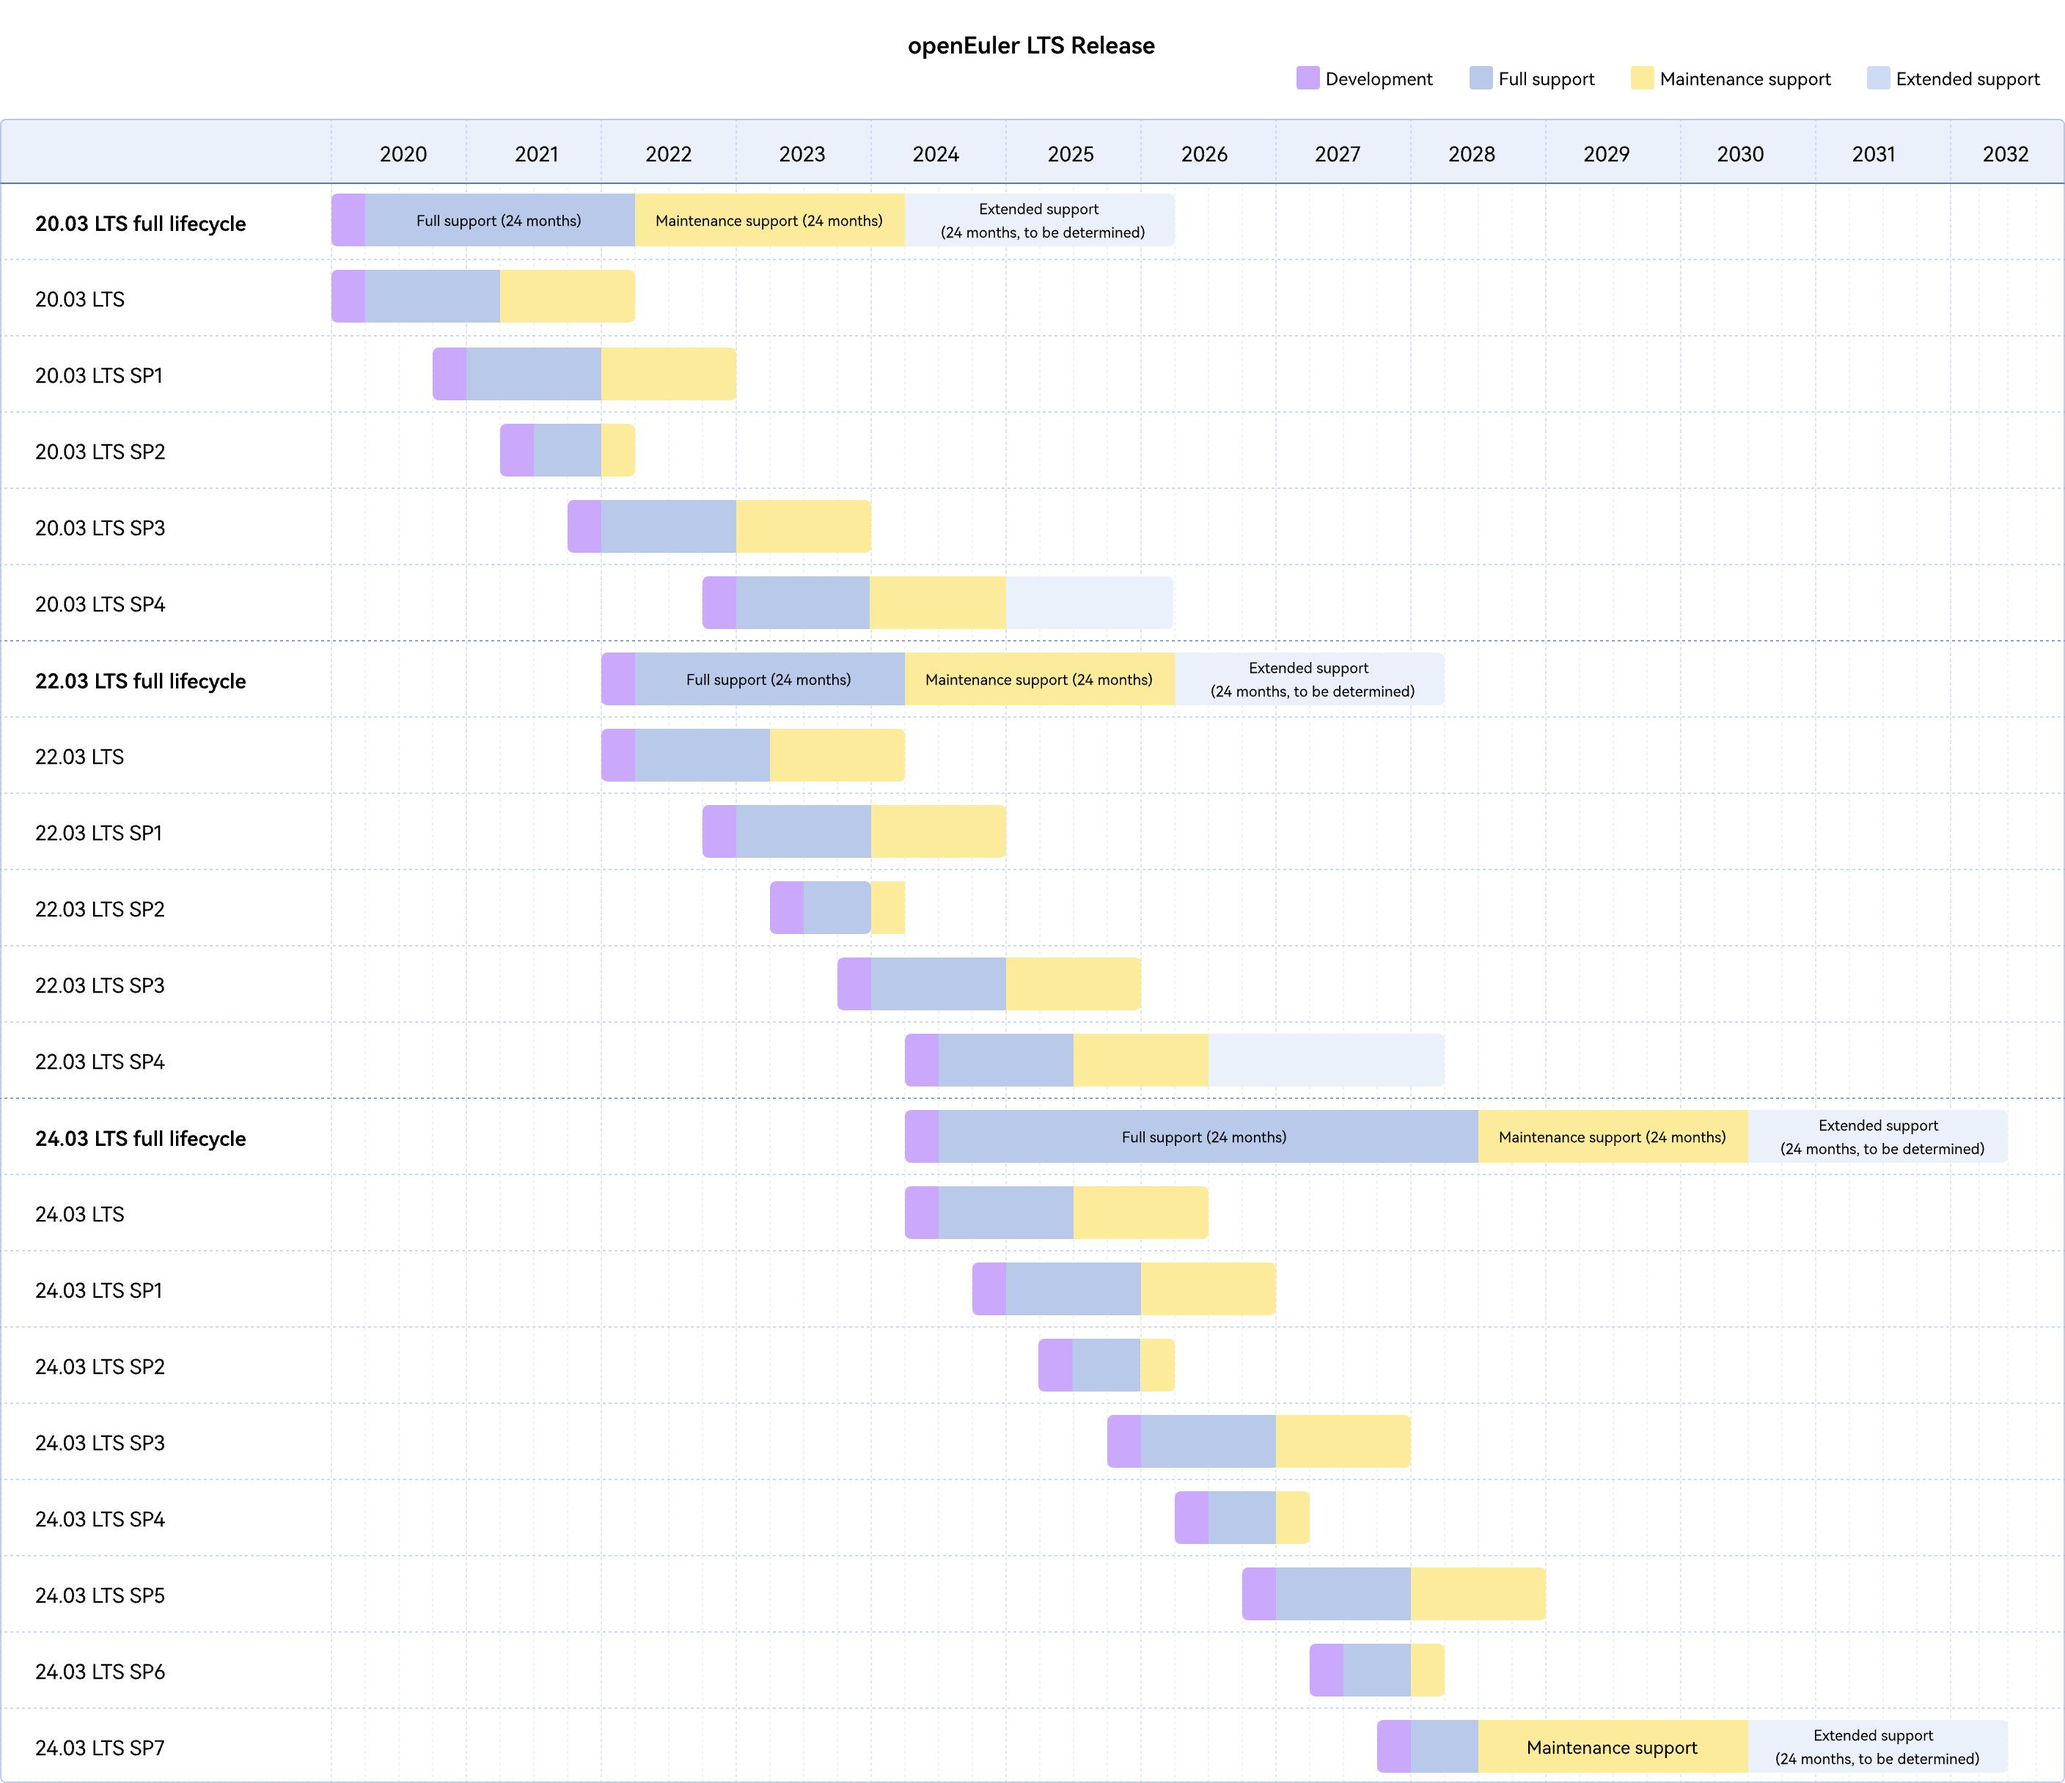
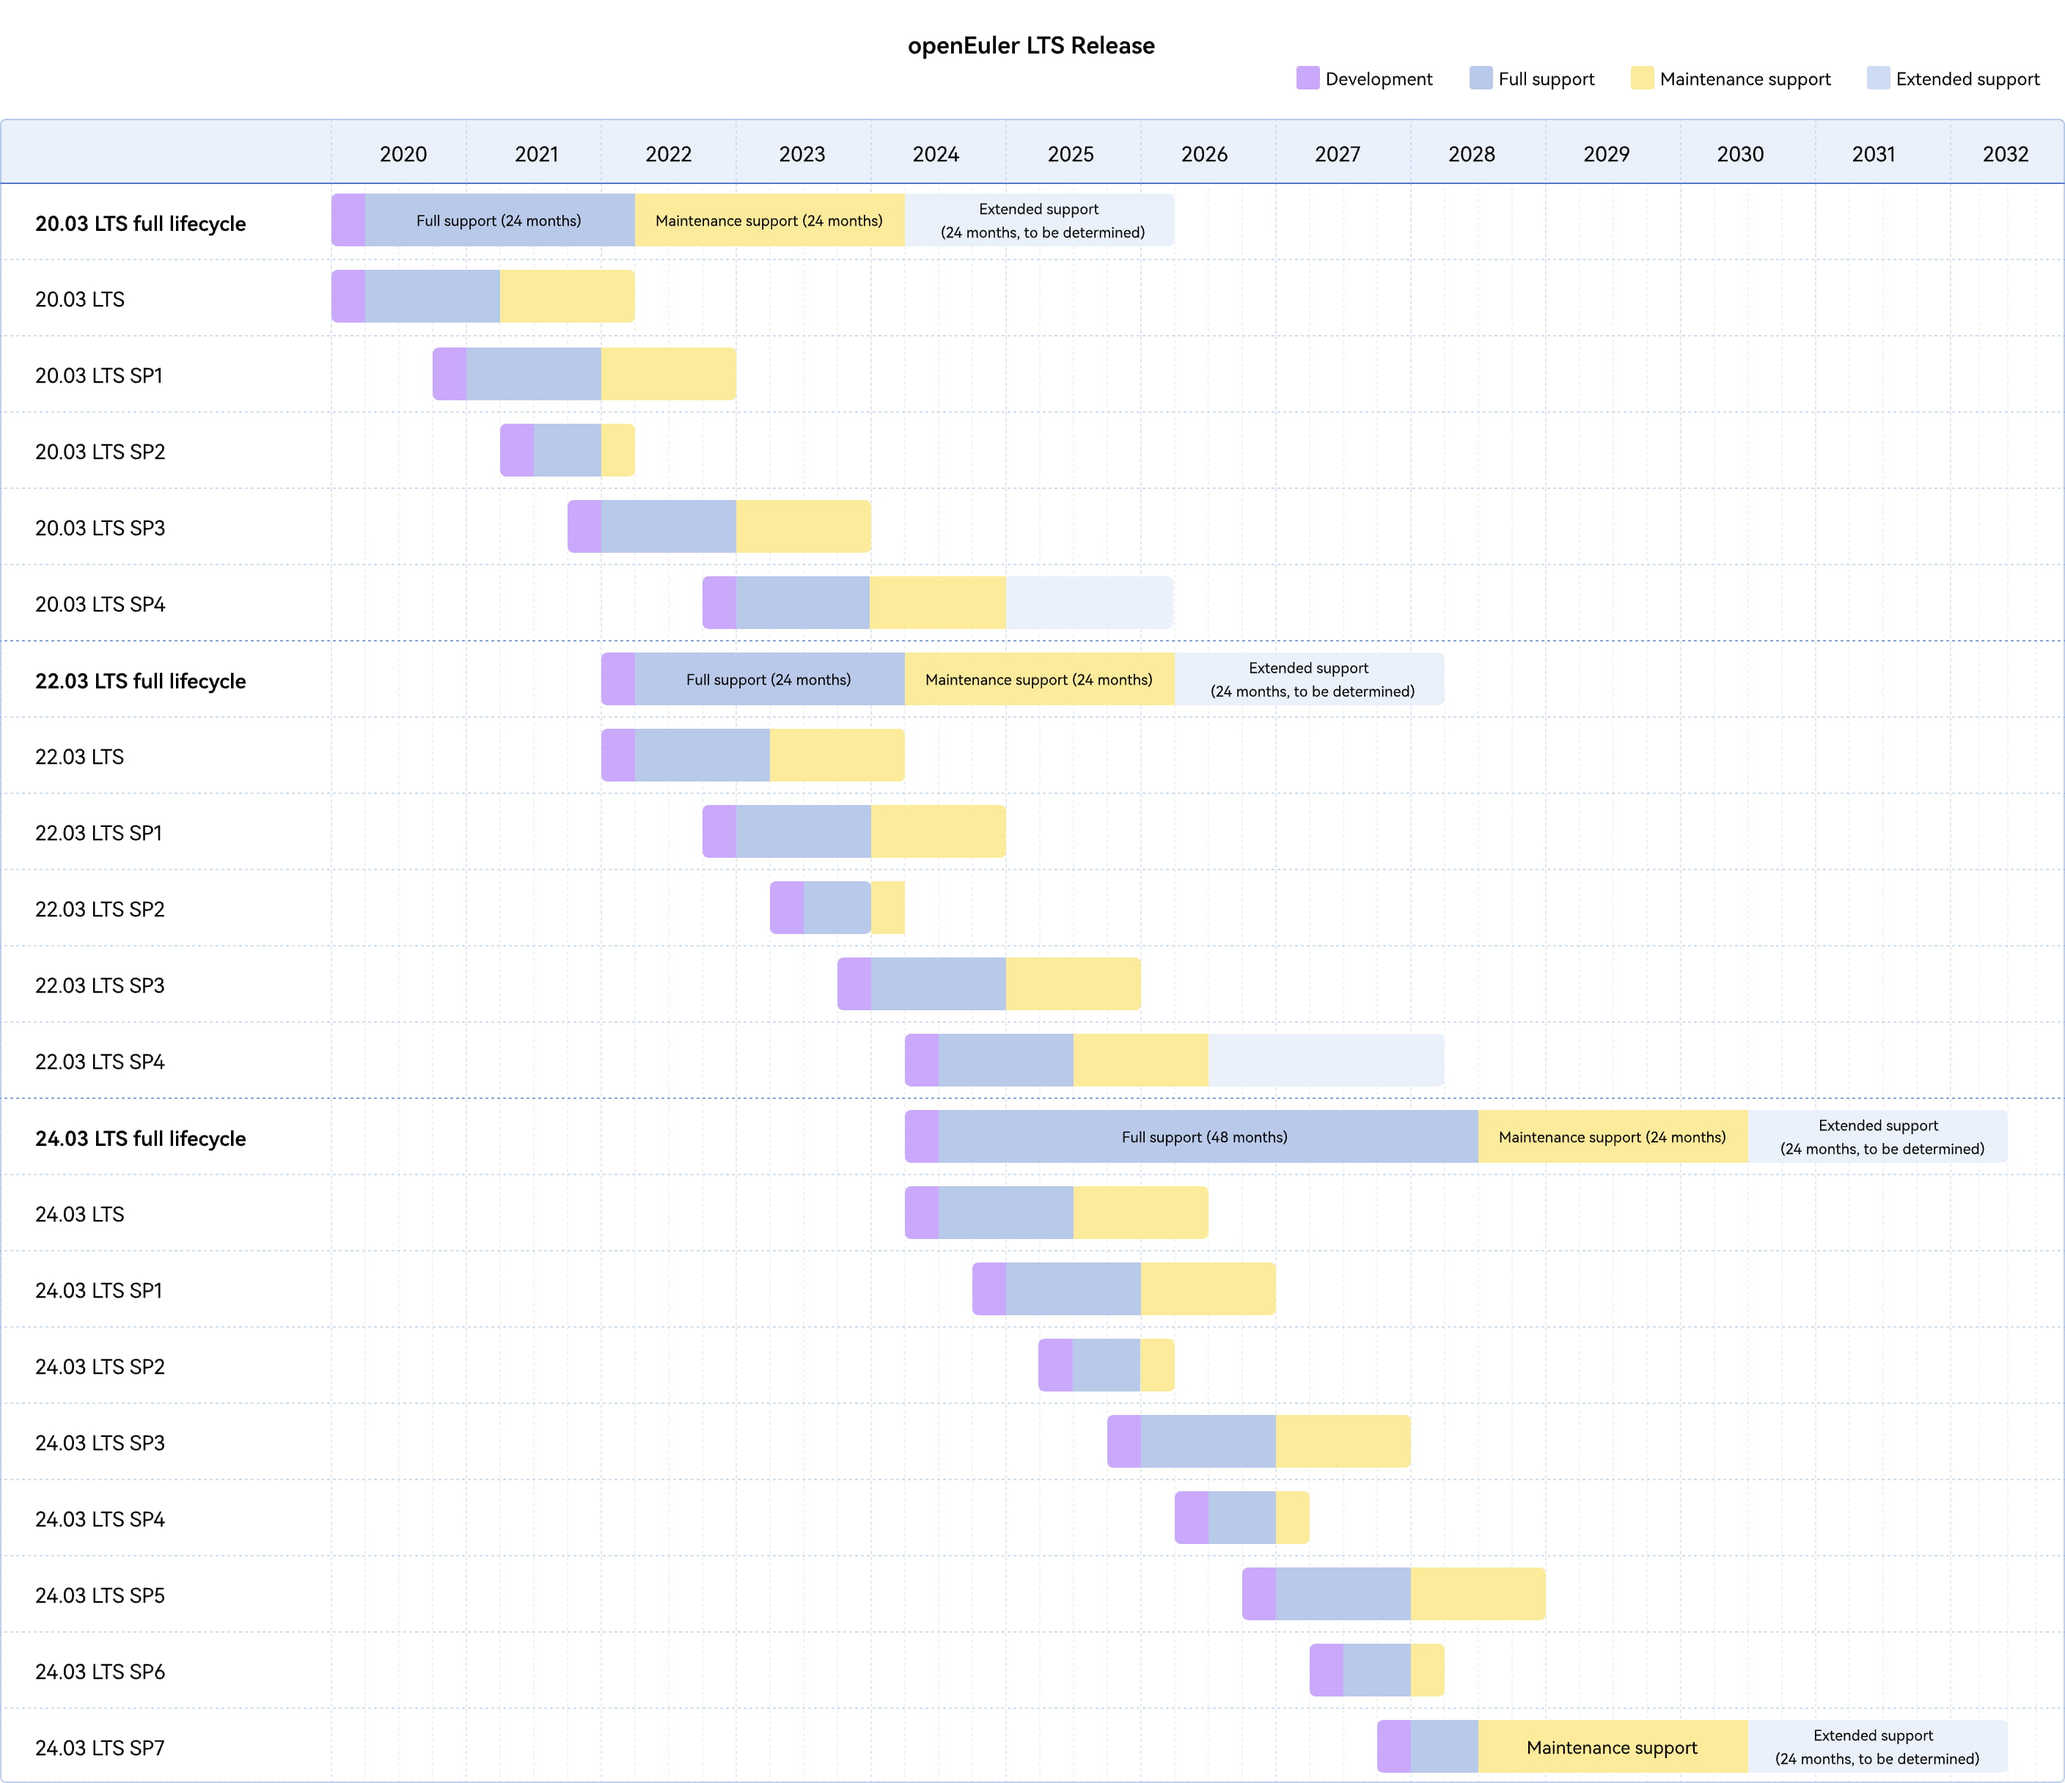
docs: 英文站声明周期页面配图更新 Co-Authored-By: alibaba-cn/glm-5.1

Changed region(s): [[0.5938, 0.625, 0.625, 0.6562]]

diff --git a/tests/lifecycle-en-image-replacement.test.ts b/tests/lifecycle-en-image-replacement.test.ts
@@ -1,0 +1,105 @@
+import { expect, describe, it } from 'vitest';
+import fs from 'node:fs';
+import path from 'node:path';
+
+const PROJECT_ROOT = process.cwd();
+const ASSETS_DIR = path.join(PROJECT_ROOT, 'app/.vitepress/src-new/assets/category/lifecycle');
+const VUE_PATH = path.join(PROJECT_ROOT, 'app/.vitepress/src-new/views/lifecycle/TheLifecycle.vue');
+
+const NEW_EN_IMAGES = ['img-en1.jpg', 'img-en2.jpg'];
+const OLD_EN_IMAGES_PNG = ['img-en1.png', 'img-en2.png'];
+const ZH_IMAGES = ['img-zh1.jpg', 'img-zh2.jpg'];
+const BANNER_IMAGE = 'banner.jpg';
+
+function isValidJpeg(filePath: string): boolean {
+  const buf = fs.readFileSync(filePath);
+  return buf[0] === 0xff && buf[1] === 0xd8 && buf[2] === 0xff;
+}
+
+describe('英文站生命周期新 JPG 图片 — 文件有效性', () => {
+  NEW_EN_IMAGES.forEach((img) => {
+    it(`${img} 文件存在且非空`, () => {
+      const p = path.join(ASSETS_DIR, img);
+      expect(fs.existsSync(p), `${img} 应存在`).toBe(true);
+      expect(fs.statSync(p).size, `${img} 文件大小应大于 0`).toBeGreaterThan(0);
+    });
+
+    it(`${img} 是合法 JPEG 格式(JFIF 签名校验)`, () => {
+      const p = path.join(ASSETS_DIR, img);
+      expect(isValidJpeg(p), `${img} 应为合法 JPEG`).toBe(true);
+    });
+
+    it(`${img} 文件大小合理(1KB~2MB)`, () => {
+      const p = path.join(ASSETS_DIR, img);
+      const size = fs.statSync(p).size;
+      expect(size, `${img} 应 ≥ 1KB`).toBeGreaterThanOrEqual(1024);
+      expect(size, `${img} 应 ≤ 2MB`).toBeLessThanOrEqual(2 * 1024 * 1024);
+    });
+  });
+});
+
+describe('英文站生命周期旧 PNG 图片已移除', () => {
+  OLD_EN_IMAGES_PNG.forEach((img) => {
+    it(`${img} 不应存在(已被 JPG 替换)`, () => {
+      const p = path.join(ASSETS_DIR, img);
+      expect(fs.existsSync(p), `${img} 应已删除`).toBe(false);
+    });
+  });
+});
+
+describe('中文站生命周期图片未受影响', () => {
+  ZH_IMAGES.forEach((img) => {
+    it(`${img} 仍存在(不应被误删或替换)`, () => {
+      const p = path.join(ASSETS_DIR, img);
+      expect(fs.existsSync(p), `${img} 应存在`).toBe(true);
+    });
+  });
+
+  it(`${BANNER_IMAGE} 仍存在(不应被误删或替换)`, () => {
+    const p = path.join(ASSETS_DIR, BANNER_IMAGE);
+    expect(fs.existsSync(p), `${BANNER_IMAGE} 应存在`).toBe(true);
+  });
+});
+
+describe('TheLifecycle.vue import 引用路径 — 新 JPG 引用正确', () => {
+  const vueContent = fs.readFileSync(VUE_PATH, 'utf8');
+
+  it('import imgEn1 引用 img-en1.jpg(而非 .png)', () => {
+    expect(vueContent).toContain('img-en1.jpg');
+  });
+
+  it('import imgEn2 引用 img-en2.jpg(而非 .png)', () => {
+    expect(vueContent).toContain('img-en2.jpg');
+  });
+});
+
+describe('TheLifecycle.vue import 引用路径 — zh 图片和 banner 未变', () => {
+  const vueContent = fs.readFileSync(VUE_PATH, 'utf8');
+
+  it('img-zh1.jpg import 仍为 .jpg 扩展名', () => {
+    expect(vueContent).toContain('img-zh1.jpg');
+  });
+
+  it('img-zh2.jpg import 仍为 .jpg 扩展名', () => {
+    expect(vueContent).toContain('img-zh2.jpg');
+  });
+
+  it('banner.jpg import 仍为 .jpg 扩展名', () => {
+    expect(vueContent).toContain('banner.jpg');
+  });
+});
+
+describe('TheLifecycle.vue import 引用路径 — 所有引用的图片文件均物理存在', () => {
+  const vueContent = fs.readFileSync(VUE_PATH, 'utf8');
+  const importLines = vueContent.split('\n').filter((l: string) => l.includes("from '~@/assets/category/lifecycle/"));
+  const imgRefs = importLines.map((l: string) => {
+    const m = l.match(/lifecycle\/([^']+)'/);
+    return m ? m[1] : '';
+  }).filter(Boolean);
+
+  imgRefs.forEach((img) => {
+    it(`${img} 物理文件存在`, () => {
+      expect(fs.existsSync(path.join(ASSETS_DIR, img)), `${img} 应存在`).toBe(true);
+    });
+  });
+});
